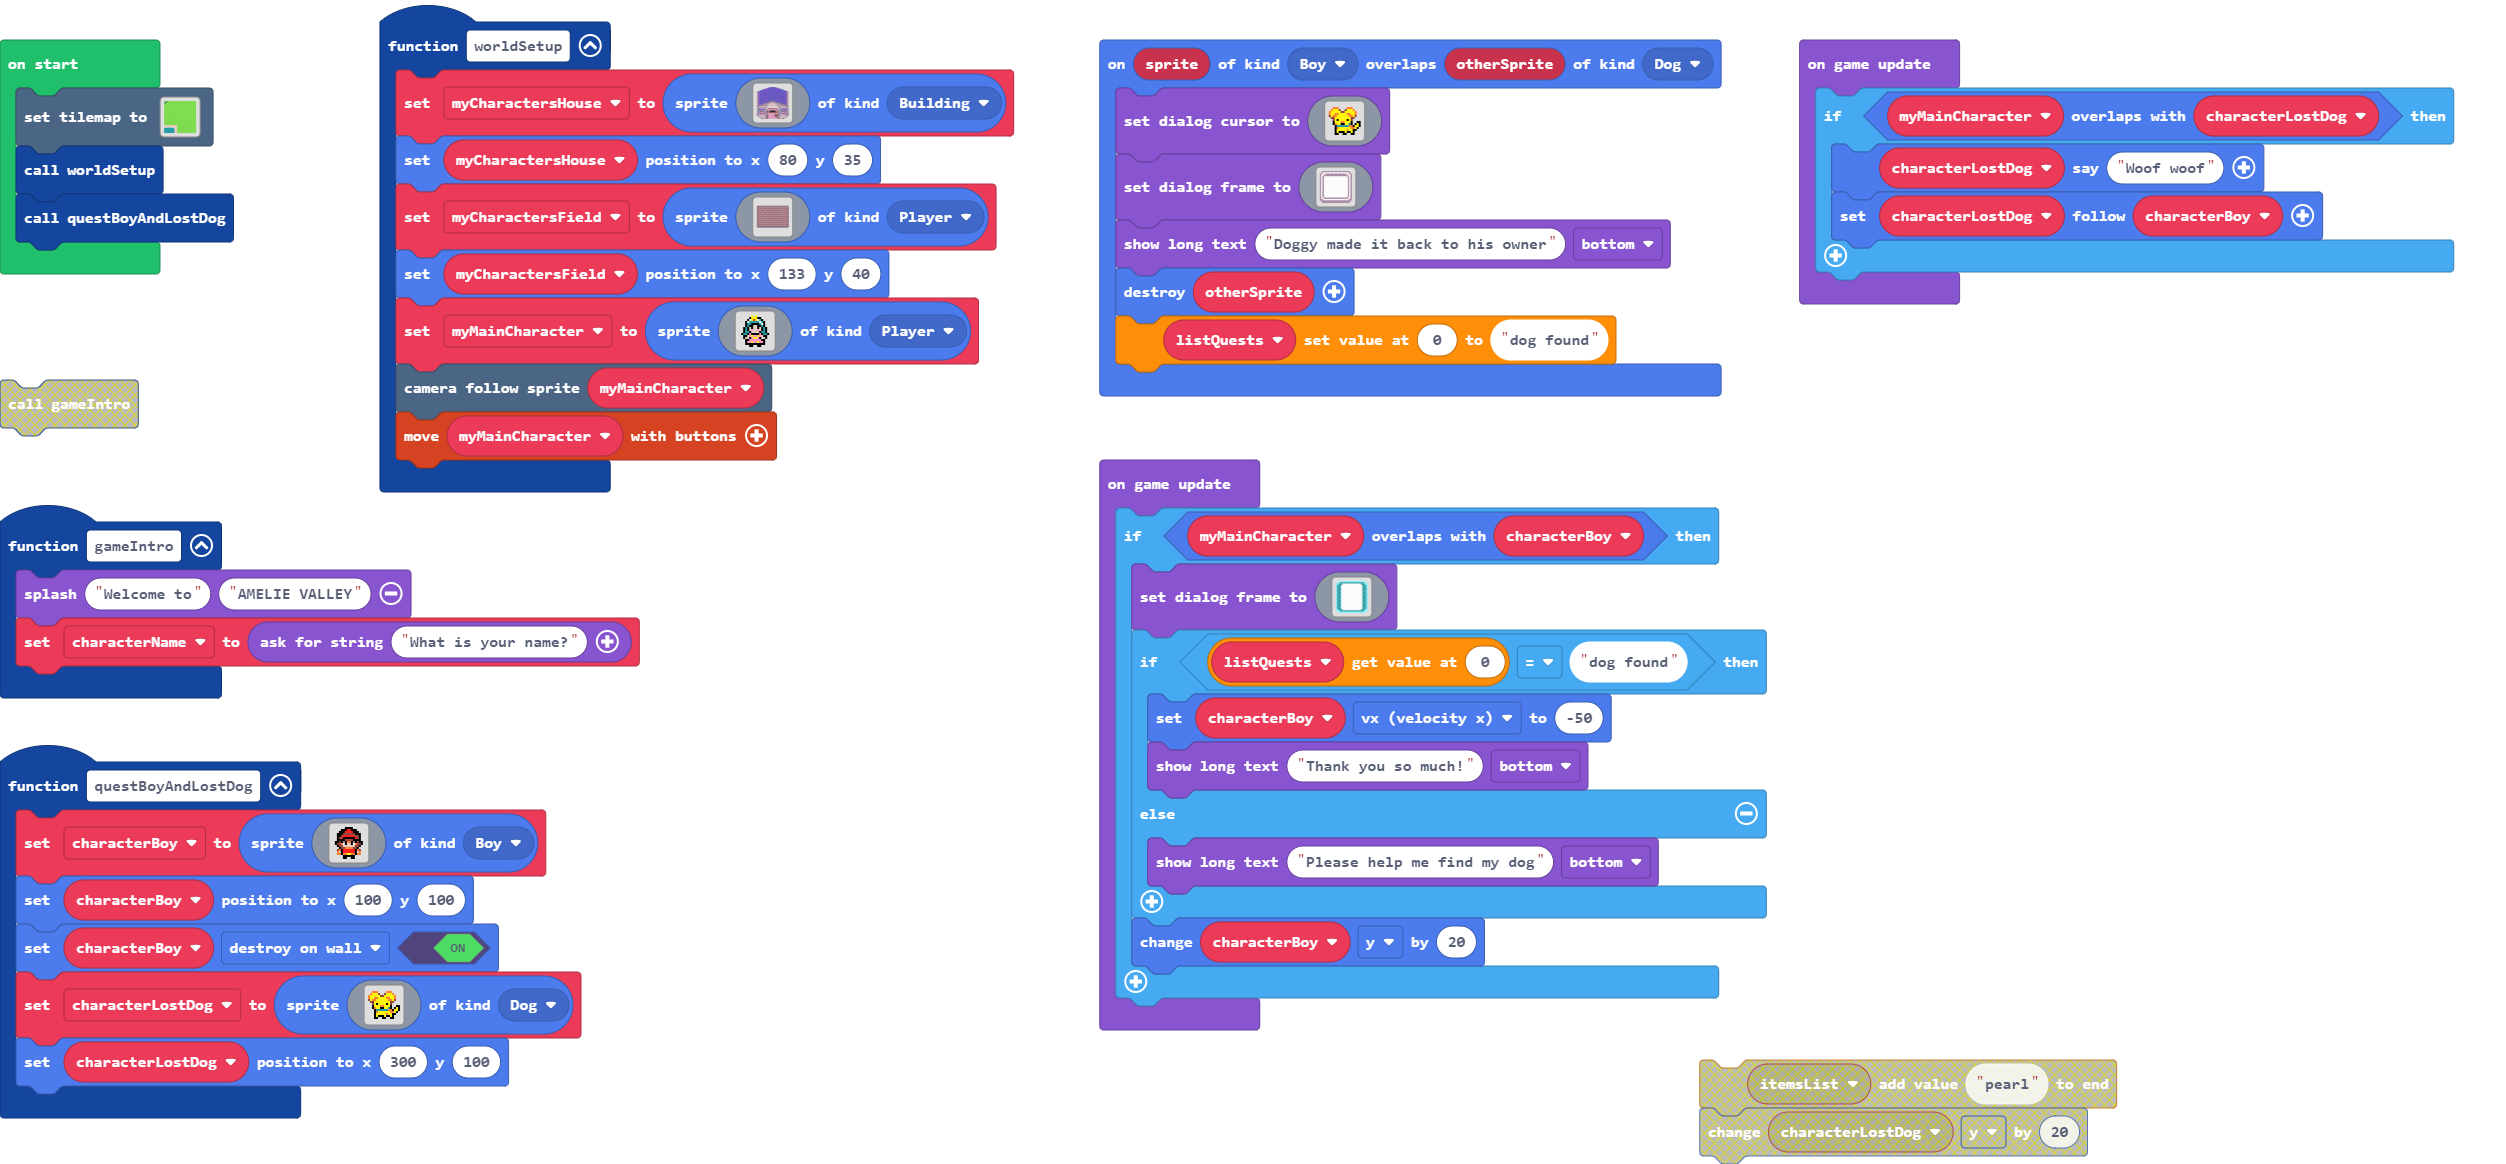
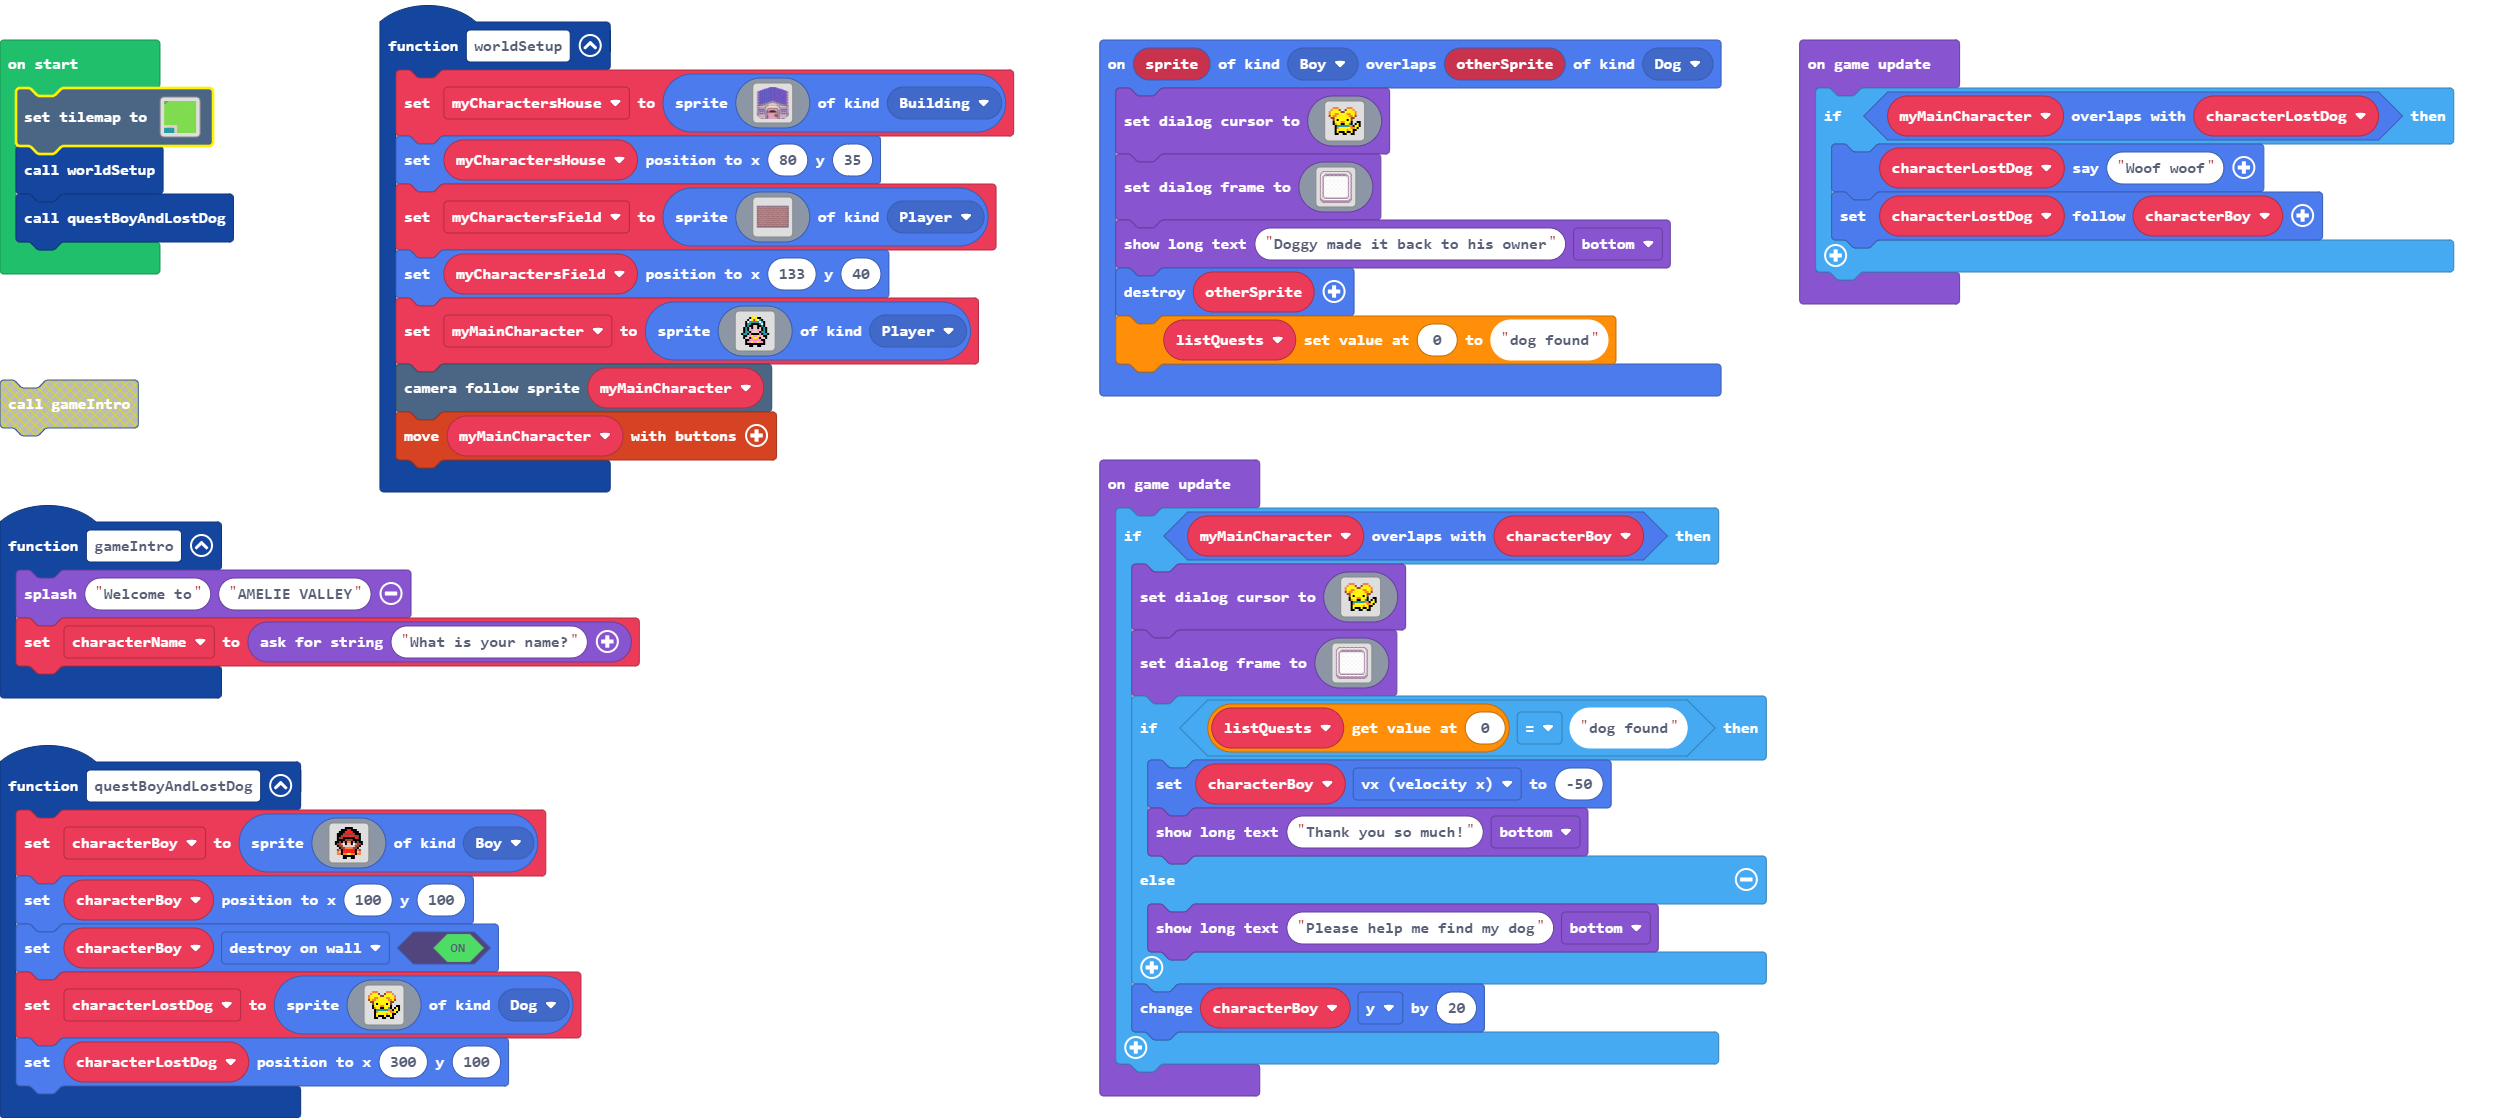
dog quest tweak and cleanup

diff --git a/images.g.ts b/images.g.ts
@@ -432,32 +432,6 @@ bbd111111111111111111dbb
 .bbbbbbbbbbbbbbbbbbbbbb.
 ..bbbbbbbbbbbbbbbbbbbb..
 `;
-            case "image19":return img`
-..99999999999999999999..
-.9966666666666666666699.
-996661111111111111166699
-966611111111111111116669
-966611111111111111116669
-966611111111111111116669
-966611111111111111116669
-966611111111111111116669
-966611111111111111116669
-966611111111111111116669
-966611111111111111116669
-966611111111111111116669
-966611111111111111116669
-966611111111111111116669
-966611111111111111116669
-966611111111111111116669
-966611111111111111116669
-966611111111111111116669
-966611111111111111116669
-966611111111111111116669
-966611111111111111116669
-996661111111111111166699
-.9966666666666666666699.
-..99999999999999999999..
-`;
             case "image20":return img`
 . . . . . . f f f f . . . . . . 
 . . . . f f f 2 2 f f f . . . . 
@@ -511,21 +485,62 @@ e 5 4 4 5 5 5 5 5 5 4 4 5 e . .
 . . . . . f f . . f f . . . . . 
 `;
             case "image23":return img`
-. . . . . . . . . . . . . . . 
-. . . . . . . . . . . . . . . 
-. . . . . . . . . . . . . . . 
-. . . . . . . . . . . . . . . 
-. . . . . . . . . . . . . . . 
-. . . . . . . . . . . . . . . 
-. . . . . . . . . . . . . . . 
-. . . . . . . . . . . . . . . 
-. . . . . . . . . . . . . . . 
-. . . . . . . . . . . . . . . 
-. . . . . . . . . . . . . . . 
-. . . . . . . . . . . . . . . 
-. . . . . . . . . . . . . . . 
-. . . . . . . . . . . . . . . 
-. . . . . . . . . . . . . . . 
+. . 4 4 4 . . . . 4 4 4 . . . . 
+. 4 5 5 5 e . . e 5 5 5 4 . . . 
+4 5 5 5 5 5 e e 5 5 5 5 5 4 . . 
+4 5 5 4 4 5 5 5 5 4 4 5 5 4 . . 
+e 5 4 4 5 5 5 5 5 5 4 4 5 e . . 
+. e e 5 5 5 5 5 5 5 5 e e . . . 
+. . e 5 f 5 5 5 5 f 5 e . . . . 
+. . f 5 5 5 4 4 5 5 5 f . . f f 
+. . f 4 5 5 f f 5 5 6 f . f 5 f 
+. . . f 6 6 6 6 6 6 4 4 f 5 5 f 
+. . . f 4 5 5 5 5 5 5 4 4 5 f . 
+. . . f 5 5 5 5 5 4 5 5 f f . . 
+. . . f 5 f f f 5 f f 5 f . . . 
+. . . f f . . f f . . f f . . . 
+`;
+            case "image19":return img`
+..bbbbbbbbbbbbbbbbbbbb..
+.bd111111111111111111db.
+bd1dbbbbbbbbbbbbbbbbd1db
+b1dbbbbbbbbbbbbbbbbbbd1b
+b1bd1111111111111111db1b
+b1b111111111111111111b1b
+b1b111111111111111111b1b
+b1b111111111111111111b1b
+b1b111111111111111111b1b
+b1b111111111111111111b1b
+b1b111111111111111111b1b
+b1b111111111111111111b1b
+b1b111111111111111111b1b
+b1b111111111111111111b1b
+b1b111111111111111111b1b
+b1b111111111111111111b1b
+b1b111111111111111111b1b
+b1b111111111111111111b1b
+b1b111111111111111111b1b
+b1bd1111111111111111db1b
+bd1bbbbbbbbbbbbbbbbbb1db
+bbd111111111111111111dbb
+.bbbbbbbbbbbbbbbbbbbbbb.
+..bbbbbbbbbbbbbbbbbbbb..
+`;
+            case "image24":return img`
+. . 4 4 4 . . . . 4 4 4 . . . . 
+. 4 5 5 5 e . . e 5 5 5 4 . . . 
+4 5 5 5 5 5 e e 5 5 5 5 5 4 . . 
+4 5 5 4 4 5 5 5 5 4 4 5 5 4 . . 
+e 5 4 4 5 5 5 5 5 5 4 4 5 e . . 
+. e e 5 5 5 5 5 5 5 5 e e . . . 
+. . e 5 f 5 5 5 5 f 5 e . . . . 
+. . f 5 5 5 4 4 5 5 5 f . . f f 
+. . f 4 5 5 f f 5 5 6 f . f 5 f 
+. . . f 6 6 6 6 6 6 4 4 f 5 5 f 
+. . . f 4 5 5 5 5 5 5 4 4 5 f . 
+. . . f 5 5 5 5 5 4 5 5 f f . . 
+. . . f 5 f f f 5 f f 5 f . . . 
+. . . f f . . f f . . f f . . . 
 `;
         }
         return null;

diff --git a/main.ts b/main.ts
@@ -137,31 +137,47 @@ game.onUpdate(function () {
 })
 game.onUpdate(function () {
     if (myMainCharacter.overlapsWith(characterBoy)) {
+        game.setDialogCursor(img`
+            . . 4 4 4 . . . . 4 4 4 . . . . 
+            . 4 5 5 5 e . . e 5 5 5 4 . . . 
+            4 5 5 5 5 5 e e 5 5 5 5 5 4 . . 
+            4 5 5 4 4 5 5 5 5 4 4 5 5 4 . . 
+            e 5 4 4 5 5 5 5 5 5 4 4 5 e . . 
+            . e e 5 5 5 5 5 5 5 5 e e . . . 
+            . . e 5 f 5 5 5 5 f 5 e . . . . 
+            . . f 5 5 5 4 4 5 5 5 f . . f f 
+            . . f 4 5 5 f f 5 5 6 f . f 5 f 
+            . . . f 6 6 6 6 6 6 4 4 f 5 5 f 
+            . . . f 4 5 5 5 5 5 5 4 4 5 f . 
+            . . . f 5 5 5 5 5 4 5 5 f f . . 
+            . . . f 5 f f f 5 f f 5 f . . . 
+            . . . f f . . f f . . f f . . . 
+            `)
         game.setDialogFrame(img`
-            ..99999999999999999999..
-            .9966666666666666666699.
-            996661111111111111166699
-            966611111111111111116669
-            966611111111111111116669
-            966611111111111111116669
-            966611111111111111116669
-            966611111111111111116669
-            966611111111111111116669
-            966611111111111111116669
-            966611111111111111116669
-            966611111111111111116669
-            966611111111111111116669
-            966611111111111111116669
-            966611111111111111116669
-            966611111111111111116669
-            966611111111111111116669
-            966611111111111111116669
-            966611111111111111116669
-            966611111111111111116669
-            966611111111111111116669
-            996661111111111111166699
-            .9966666666666666666699.
-            ..99999999999999999999..
+            ..bbbbbbbbbbbbbbbbbbbb..
+            .bd111111111111111111db.
+            bd1dbbbbbbbbbbbbbbbbd1db
+            b1dbbbbbbbbbbbbbbbbbbd1b
+            b1bd1111111111111111db1b
+            b1b111111111111111111b1b
+            b1b111111111111111111b1b
+            b1b111111111111111111b1b
+            b1b111111111111111111b1b
+            b1b111111111111111111b1b
+            b1b111111111111111111b1b
+            b1b111111111111111111b1b
+            b1b111111111111111111b1b
+            b1b111111111111111111b1b
+            b1b111111111111111111b1b
+            b1b111111111111111111b1b
+            b1b111111111111111111b1b
+            b1b111111111111111111b1b
+            b1b111111111111111111b1b
+            b1bd1111111111111111db1b
+            bd1bbbbbbbbbbbbbbbbbb1db
+            bbd111111111111111111dbb
+            .bbbbbbbbbbbbbbbbbbbbbb.
+            ..bbbbbbbbbbbbbbbbbbbb..
             `)
         if (listQuests[0] == "dog found") {
             characterBoy.vx = -50

diff --git a/tilemap.g.ts b/tilemap.g.ts
@@ -118,6 +118,25 @@ namespace myTiles {
 . . . . . . . . . . . . . . . . 
 . . . . . . . . . . . . . . . . 
 `, [myTiles.transparency16], TileScale.Sixteen);
+            case "level4":
+            case "level4":return tiles.createTilemap(hex`1000100000000000000000000000000000000000000000000000000000000000000000000000000000000000000000000000000000000000000000000000000000000000000000000000000000000000000000000000000000000000000000000000000000000000000000000000000000000000000000000000000000000000000000000000000000000000000000000000000000000000000000000000000000000000000000000000000000000000000000000000000000000000000000000000000000000000000000000000000000000000000000000000000000000000000000000000000000000000000000000000000000000000000000000000000000000000`, img`
+. . . . . . . . . . . . . . . . 
+. . . . . . . . . . . . . . . . 
+. . . . . . . . . . . . . . . . 
+. . . . . . . . . . . . . . . . 
+. . . . . . . . . . . . . . . . 
+. . . . . . . . . . . . . . . . 
+. . . . . . . . . . . . . . . . 
+. . . . . . . . . . . . . . . . 
+. . . . . . . . . . . . . . . . 
+. . . . . . . . . . . . . . . . 
+. . . . . . . . . . . . . . . . 
+. . . . . . . . . . . . . . . . 
+. . . . . . . . . . . . . . . . 
+. . . . . . . . . . . . . . . . 
+. . . . . . . . . . . . . . . . 
+. . . . . . . . . . . . . . . . 
+`, [myTiles.transparency16], TileScale.Sixteen);
         }
         return null;
     })
